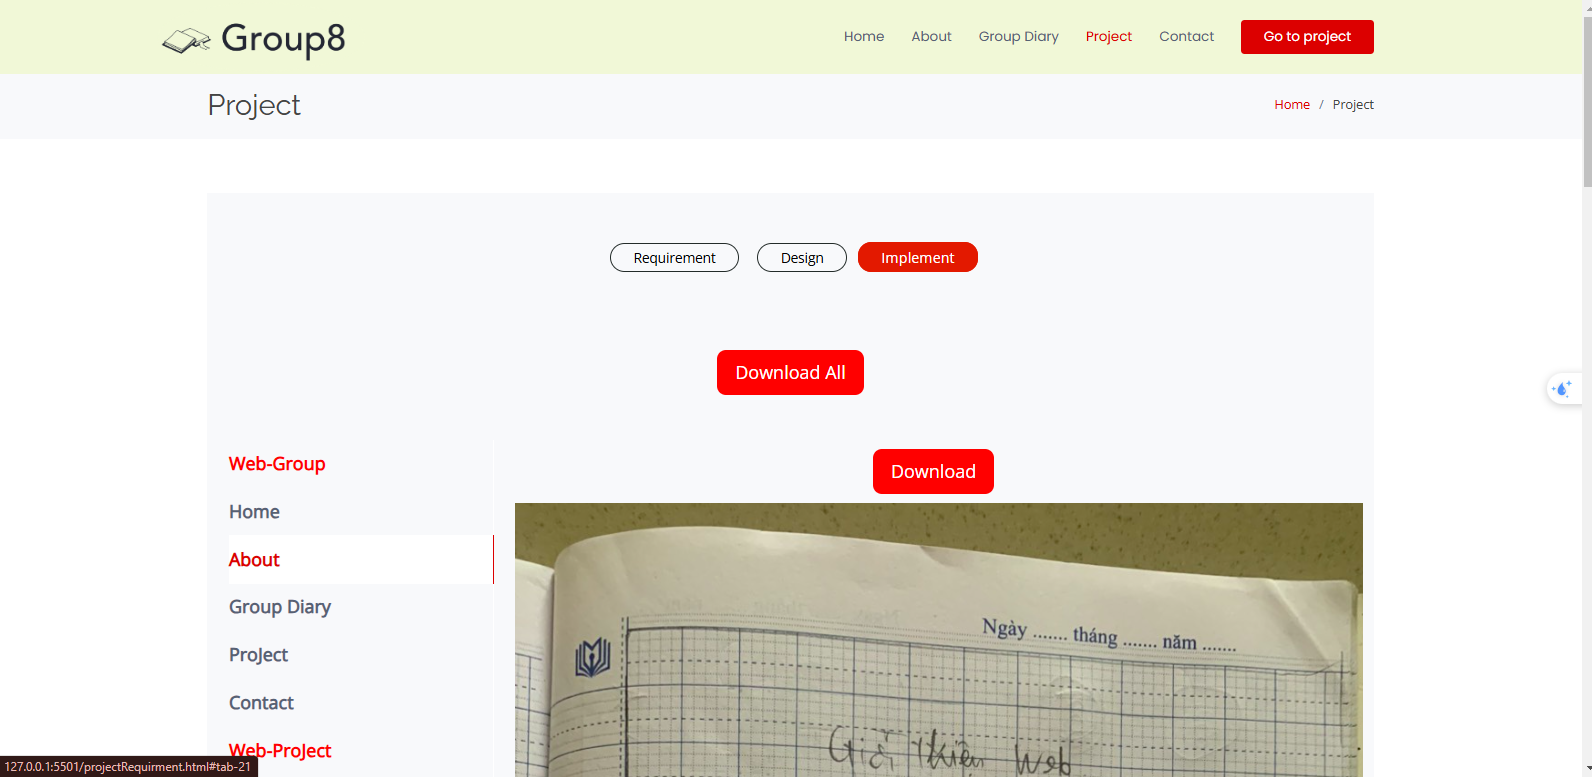
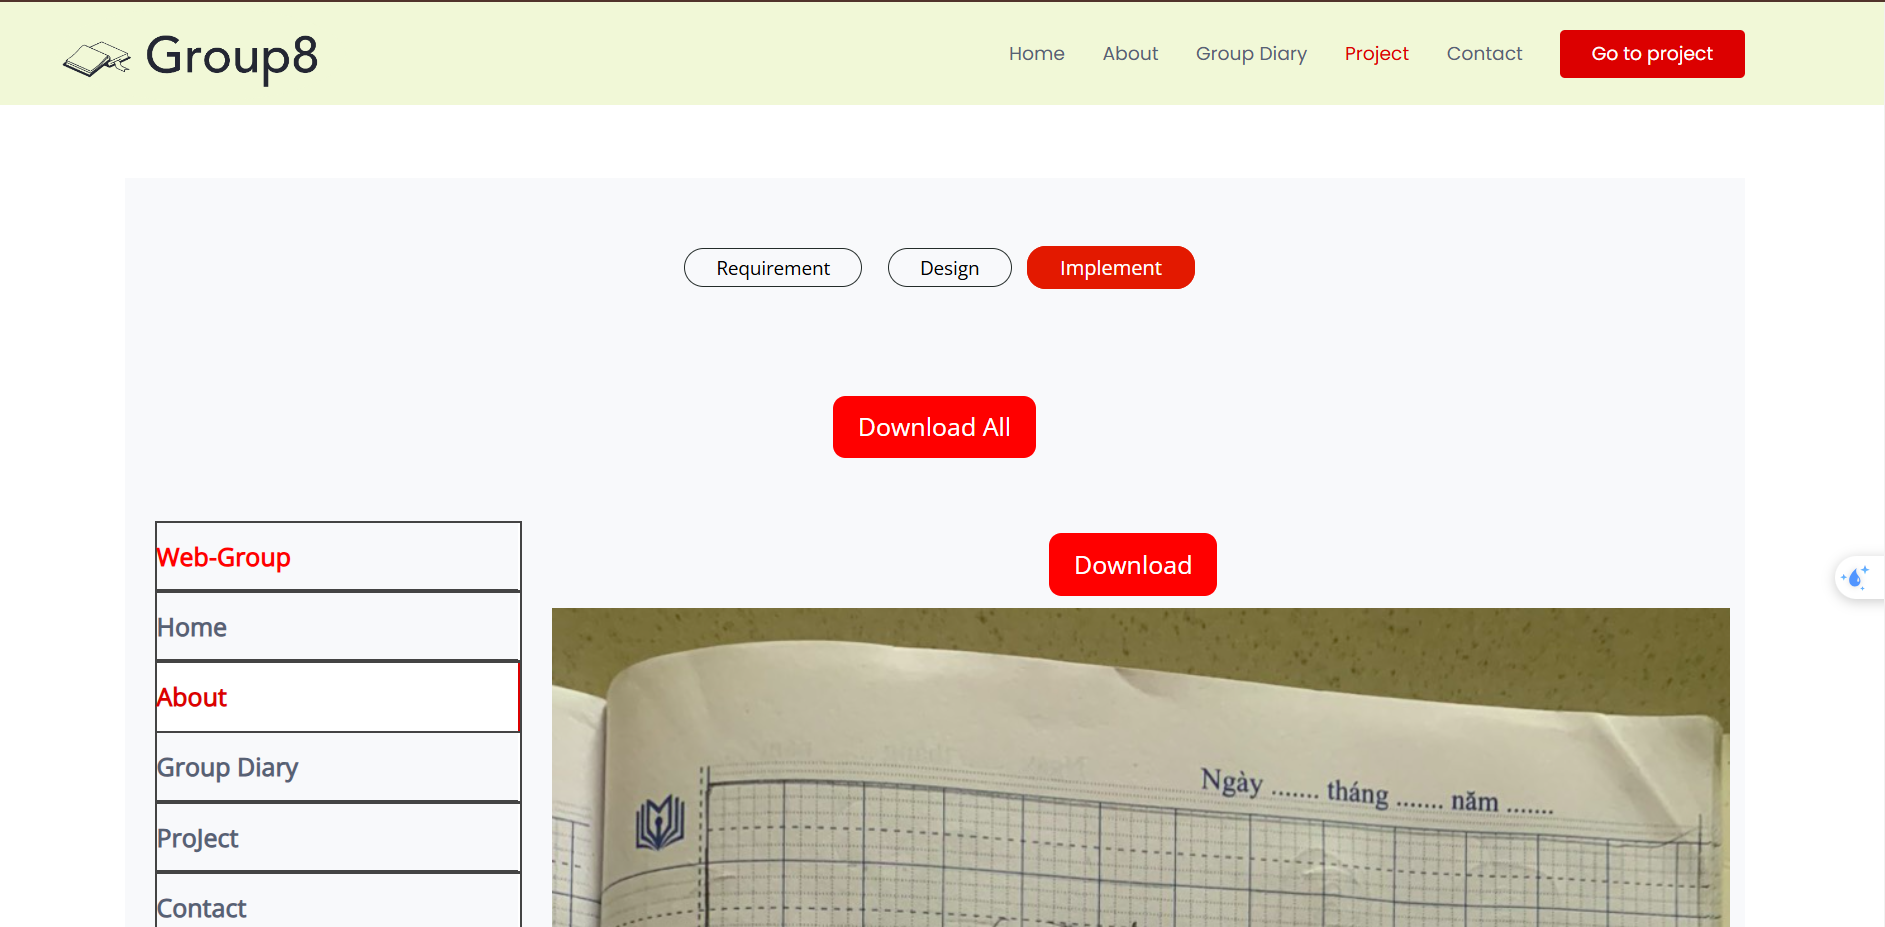
update_Imp_GrD_

diff --git a/projectRequirment.html b/projectRequirment.html
@@ -168,19 +168,24 @@
                   <div class="container">
         
         
-        
+                      <style>
+                        
+                        .nav-item{
+                          border: 2px solid ;
+                        }
+                      </style>
                     <div class="row">
         
                       <div class="box" style="padding-bottom: 50px;">
                         <button class="download" onclick="downloadImages()">Download All</button>       
                       </div>
-                      <div class="col-lg-3">
+                      <div class="col-lg-3" >
                         <ul class="nav nav-tabs flex-column">
                           <ul class="nav nav-tabs flex-column">
                             <li class="nav-item">
                               <a class="nav-link  show" data-bs-toggle="tab" href="#" style="font-size: 20px;color: red;">Web-Group</a>
                             </li>
-                          <li class="nav-item">
+                          <li class="nav-item"style="border: 2px solid;">
                             <a class="nav-link active show" data-bs-toggle="tab" href="#tab-1" style="font-size: 20px;">Home</a>
                           </li>
                           <li class="nav-item">
